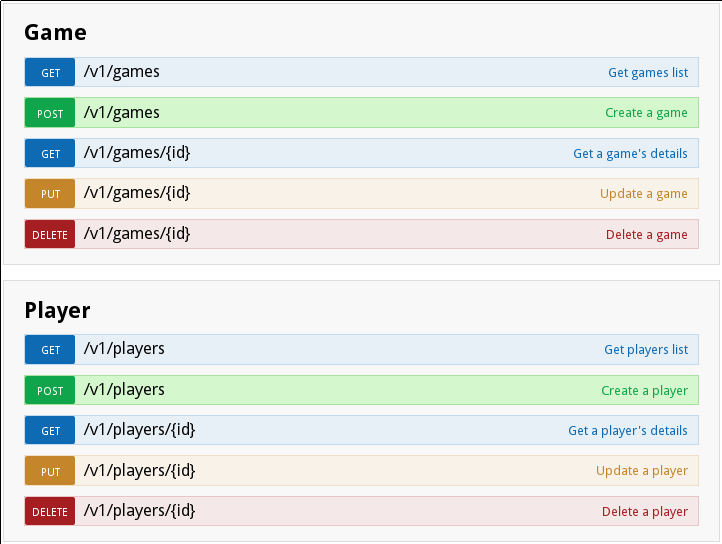
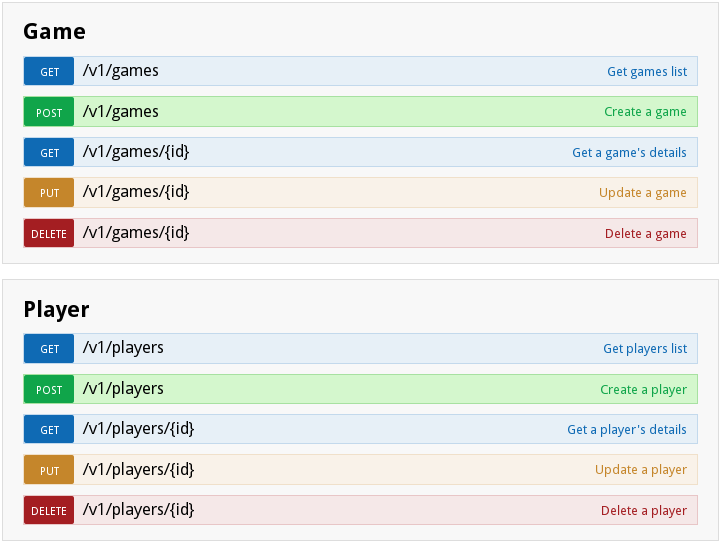
add images for github and fix apidoc image

diff --git a/index.html b/index.html
@@ -346,8 +346,8 @@
                     <section>
                         <h2>Bilan</h2>
                         <ul>
-                            <li>les librairies *.js pas forcément très stable</li>
-                            <li>Des specs simple -> un produit utilisable rapidement</li>
+                            <li>Les librairies *.js pas forcément très stables</li>
+                            <li>Développement itératif avec périmètre restreint => utilisable rapidement</li>
                         </ul>
                     </section>
                     <section>
@@ -355,22 +355,27 @@
                         <ul>
                             <li>Timestamps début/fin de match et à chaque but <em>(en cours)</em></li>
                             <li>Création/modificaton des joueurs dans l'appli</li>
+                            <li>Des stats qui prennent en compte les différences de niveau <em>(ELO)</em></li>
                             <li>Composition à chaque but</li>
-                            <li>Nettoyage et HATEOAS poussé de l'API</li>
-                            <li>Des stats qui prennent en compte les différences de niveau</li>
                             <li>D'autres idées ?</li>
                         </ul>
                     </section>
                     <section>
                         <h2>Contribuer</h2>
                         <ul>
-                            <li><a href="https://github.com/M6Web/Babitch/">M6Web/Babitch</a></li>
-                            <li><a href="https://github.com/M6Web/BabitchClient/">M6Web/BabitchClient</a></li>
+                            <li>
+                                <a href="https://github.com/M6Web/Babitch/">M6Web/Babitch</a><br />
+                                <img src="images/github-babitch.png" />
+                            </li>
+                            <li>
+                                <a href="https://github.com/M6Web/BabitchClient/">M6Web/BabitchClient</a><br />
+                                <img src="images/github-babitchclient.png" />
+                            </li>
                         </ul>
                     </section>
-                    <section>
-                        <h2>Merci</h2>
-                    </section>
+                </section>
+                <section>
+                    <h2>Merci</h2>
                 </section>
             </div>
 
